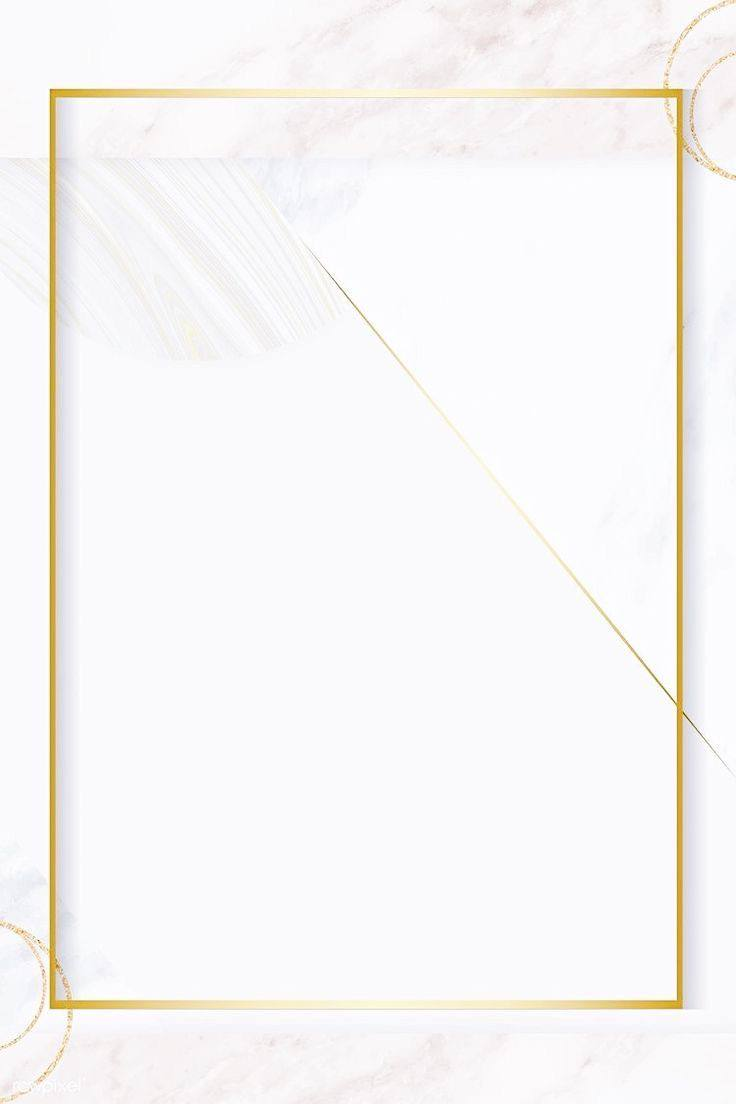
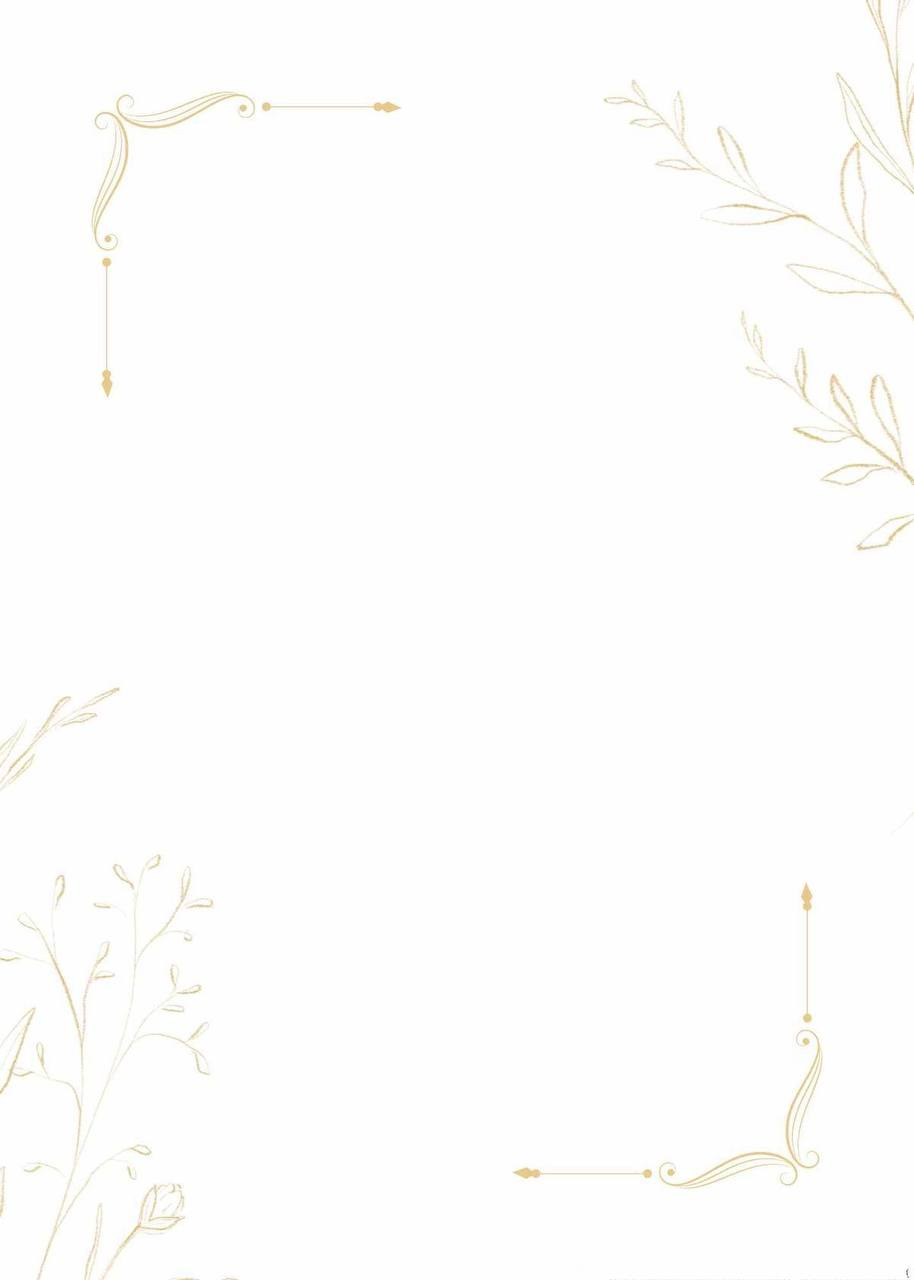
style: new background and base font

diff --git a/index.html b/index.html
@@ -18,9 +18,9 @@
 	<main class="scroll-container">
 		
 		<section class="header-section">
-			<div>
-				<h1 style="margin-top: 16px; font-size: 64px;">Олжас & <br> Дильмира</h1>
-				<h3 style="font-size: 40px; padding-bottom: 16px;">Үйлену той</h3>
+			<div style="margin-top: 10rem;">
+				<h1 style="margin-top: 16px; font-size: 72px;">Олжас & <br> Дильмира</h1>
+				<h3 style="font-size: 48px; padding-bottom: 16px;">Үйлену той</h3>
 			</div>
 			<div class="player-button">
 				<div class="rotating-text">
@@ -43,7 +43,9 @@
 		<section class="snap-section">
 			<div class="content">
 				<h3 class="" style="padding-bottom: 12px;">Құрметті қонақтар!</h3>
-				<p class="text-base" style="padding: 0 12px">Сіздерді балаларымыз<br>Олжас пен Дильмираның<br>үйлену тойына арналған салтанатты ақ дастарханымызға шақырамыз!</p>
+				<p class="text-base" style="padding: 0 18px;">
+					Сіздерді балаларымыз<br>Олжас пен Дильмираның<br>үйлену тойына арналған салтанатты ақ дастарханымызға шақырамыз!
+				</p>
 			</div>
 		</section>
 		
@@ -61,7 +63,7 @@
 		<section class="snap-section">
 			<div class="content">
 				<h3 class="" style="text-align: center; padding-bottom: 12px;">Мекенжайымыз:</h3>
-				<p class="" style="text-align: center; font-family: Arial, Helvetica, sans-serif; color: #2c3e50">Қарағанды қаласы, <br>Инкарбаева 2Б көшесі, <br><b>Ариста рестораны</b>, <br><span style="font-size: 24px">Yлкен зал</span></p>
+				<p class="" style="text-align: center; font-family: 'Cormorant Infant', serif; color: #2c3e50">Қарағанды қаласы, <br>Инкарбаева 2Б көшесі, <br><b>Ариста рестораны</b>, <br><span style="font-size: 24px">Yлкен зал</span></p>
 				<div class="map">
 					<iframe src="https://www.google.com/maps/embed?pb=!1m14!1m8!1m3!1d587.7619819836993!2d73.13020304625374!3d49.79150745978591!3m2!1i1024!2i768!4f13.1!3m3!1m2!1s0x42434773b0d3acb5%3A0x128fc9669724e2b2!2sArista!5e0!3m2!1sru!2sus!4v1744473999755!5m2!1sru!2sus" width="400" height="300" style="border:0;" allowfullscreen="" loading="lazy" referrerpolicy="no-referrer-when-downgrade"></iframe>
 				</div>
@@ -70,9 +72,9 @@
 		
 		<section class="snap-section">
 			<div class="content">
-				<h3 class="" style="padding-bottom: 36px;">Той иелері:</h3>
+				<h3 class="" style="padding-bottom: 12px;">Той иелері:</h3>
 				<p class="text-base ">Дархан - Гульмира</p>
-				<h5 style="padding: 36px 0;">Қуанышымызға ортақ болыңыздар!</h5>
+				<h5 style="padding-bottom: 48px;">Қуанышымызға ортақ болыңыздар!</h5>
 			</div>
 		</section>
 		
@@ -81,22 +83,22 @@
 				<h6 class="text-base" style="font-size: 18px">Төмендегі форманы толтырып,
 					тойға растауыңызды сұраймыз:
 				</h6>
-				<h5>Тойға келесіз бе?</h5>
+				<h5 style="padding: 8px 0">Тойға келесіз бе?</h5>
 				<form id="rsvpForm" class="" onsubmit="handleSubmit(event)">
-					<label for="fullName" style="font-family: 'Roboto Light', sans-serif">Толық аты-жөніңізді жазыңыз:</label>
-					<input type="text" id="fullName" name="fullName" class="input-label" placeholder="Аты-жөніңіз" required>
+					<label for="fullName" style="font-family: 'Cormorant Infant', serif">Толық аты-жөніңізді жазыңыз:</label>
+					<input type="text" id="fullName" name="fullName" class="input-label" style="font-family: 'Cormorant Infant', serif" placeholder="Аты-жөніңіз" required>
 					<div style="display: block; justify-content: start">
 						<div style="margin-bottom: 12px;">
 							<input type="radio" id="yes" name="coming" value="yes" required>
-							<label for="yes" style="font-family: 'Roboto Light', sans-serif">Әрине, келемін</label>
+							<label for="yes" style="font-family: 'Cormorant Infant', serif">Әрине, келемін</label>
 						</div>
 						<div>
 							<input type="radio" id="no" name="coming" value="no" required>
-							<label for="no" style="font-family: 'Roboto Light', sans-serif">Өкінішке орай, келе алмаймын</label>
+							<label for="no" style="font-family: 'Cormorant Infant', serif">Өкінішке орай, келе алмаймын</label>
 						</div>
 					</div>
 					<div id="submitArea">
-						<button type="submit">Жіберу</button>
+						<button type="submit" style="font-family: 'Cormorant Infant', serif">Жіберу</button>
 					</div>
 				</form>
 				

diff --git a/style.css b/style.css
@@ -1,4 +1,5 @@
 @import url('https://fonts.googleapis.com/css2?family=Lobster&display=swap');
+@import url('https://fonts.googleapis.com/css2?family=Cormorant+Infant:ital,wght@0,300..700;1,300..700&display=swap');
 
 * {
     margin: 0;
@@ -54,7 +55,7 @@ html, body {
 }
 
 .header-section {
-    background-image: url('./assets/img/header2.jpg');
+    background-image: url('./assets/img/header.jpg');
     display: flex;
     flex-direction: column;
     justify-content: space-around;
@@ -100,11 +101,12 @@ h5 {
 }
 
 .text-base {
-    font-family: Arial, Helvetica, sans-serif;
+    font-family: "Cormorant Infant", serif;
     font-size: 24px;
     color: var(--base-color);
     text-align: center;
     font-weight: 400;
+    font-style: italic;
 }
 
 label {
@@ -150,7 +152,7 @@ button {
     width: 140px;
     height: 140px;
     overflow: hidden;
-    bottom: 7%;
+    bottom: 10%;
     left: 60%;
 }
 
